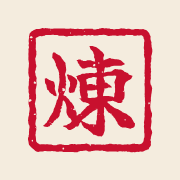
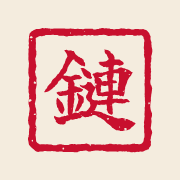
fix(brand): the seal reads 鏈, matching the name 鏈記 (owner)
The seal showed 煉 while the logo text is 鏈記. scripts/brand/lian-glyph.path
is now 鏈 from the same font (Yuji Syuku, OFL), y-flipped, centred and scaled
to the old glyph's longest side, and gen-seal.ts regenerated every icon from
it: icon.svg, favicon.ico, icon-192/512 (transparent), the maskable icons and
apple-icon / apple-touch-icon (on paper, as iOS needs). The seal keeps its
transparent background. Icon URLs bump to ?v=5.

Changed region(s): [[0.2222, 0.25, 0.75, 0.7778]]

diff --git a/scripts/brand/gen-seal.ts b/scripts/brand/gen-seal.ts
@@ -1,6 +1,6 @@
 #!/usr/bin/env bun
 /**
- * The seal (煉, 印泥 red) — generates every logo file from one source:
+ * The seal (鏈, 印泥 red) — generates every logo file from one source:
  *
  *   public/icon.svg                 header logo, favicon (transparent)
  *   public/favicon.ico              16/32/48 (transparent)
@@ -8,7 +8,7 @@
  *   public/icon-maskable-192.png, -512.png   manifest "maskable" (paper)
  *   public/apple-icon.png, apple-touch-icon.png   iOS home screen (paper)
  *
- * The seal is a 朱文 (red-relief) stamp: a red rim and the red 煉, with the
+ * The seal is a 朱文 (red-relief) stamp: a red rim and the red 鏈, with the
  * paper showing through between them — never a filled red tile. Its worn,
  * hand-pressed edge is baked into the path geometry here rather than done
  * with SVG filters (feTurbulence/feDisplacementMap): WebKit drew the filtered
@@ -208,7 +208,7 @@ for (let k = 0; k < 70; k++) {
 }
 
 const svg = `<svg xmlns="http://www.w3.org/2000/svg" viewBox="0 0 1000 1000">
-<!-- Generated by scripts/brand/gen-seal.ts — edit that, not this. The seal (煉, 印泥 red): a 朱文 stamp on a transparent background. -->
+<!-- Generated by scripts/brand/gen-seal.ts — edit that, not this. The seal (鏈, 印泥 red): a 朱文 stamp on a transparent background. -->
 <style>.s{fill:${SEAL}}@media (prefers-color-scheme:dark){.s{fill:${SEAL_DARK}}}</style>
 <defs><mask id="w" maskUnits="userSpaceOnUse" x="0" y="0" width="1000" height="1000"><rect width="1000" height="1000" fill="#fff"/><path fill="#000" d="${toPath(specks)}"/></mask></defs>
 <g class="s" mask="url(#w)"><path fill-rule="evenodd" d="${toPath([rimOuter, rimInner])}"/><path d="${toPath(glyph)}"/></g>

diff --git a/app/layout.tsx b/app/layout.tsx
@@ -37,12 +37,12 @@ export const metadata: Metadata = {
   title: "Lianki",
   description: "Spaced repetition learning with the FSRS algorithm",
   manifest: "/manifest.json",
-  // The seal (煉, 印泥 red) — all generated by scripts/brand/gen-seal.ts.
+  // The seal (鏈, 印泥 red) — all generated by scripts/brand/gen-seal.ts.
   icons: {
     // ?v= busts browsers' sticky favicon caches (Chrome kept showing the old
     // Next.js icon). Bump it whenever the icon files change.
-    icon: [{ url: "/icon.svg?v=4", type: "image/svg+xml" }, { url: "/favicon.ico?v=4" }],
-    apple: "/apple-icon.png?v=4",
+    icon: [{ url: "/icon.svg?v=5", type: "image/svg+xml" }, { url: "/favicon.ico?v=5" }],
+    apple: "/apple-icon.png?v=5",
   },
   // Opened from the iPhone home screen, Lianki runs without Safari's address bar.
   // "black-translucent" lets the page run under the status bar and the notch:

diff --git a/app/components/AppShell.tsx b/app/components/AppShell.tsx
@@ -236,7 +236,7 @@ export function AppShell({
           className="flex items-center gap-2 text-xl font-bold hover:opacity-80 transition-opacity"
         >
           {/* eslint-disable-next-line @next/next/no-img-element -- a tiny static SVG */}
-          <img src="/icon.svg?v=4" alt="" width={28} height={28} />
+          <img src="/icon.svg?v=5" alt="" width={28} height={28} />
           <BrandIsland appName={appName} locale={locale} />
         </Link>
 

diff --git a/app/components/Header.tsx b/app/components/Header.tsx
@@ -64,7 +64,7 @@ export function Header({
           className="flex items-center gap-2 text-2xl font-bold hover:opacity-80 transition-opacity"
         >
           {/* eslint-disable-next-line @next/next/no-img-element -- a tiny static SVG */}
-          <img src="/icon.svg?v=4" alt="" width={28} height={28} />
+          <img src="/icon.svg?v=5" alt="" width={28} height={28} />
           <BrandIsland appName={appName} locale={locale} />
         </Link>
 
